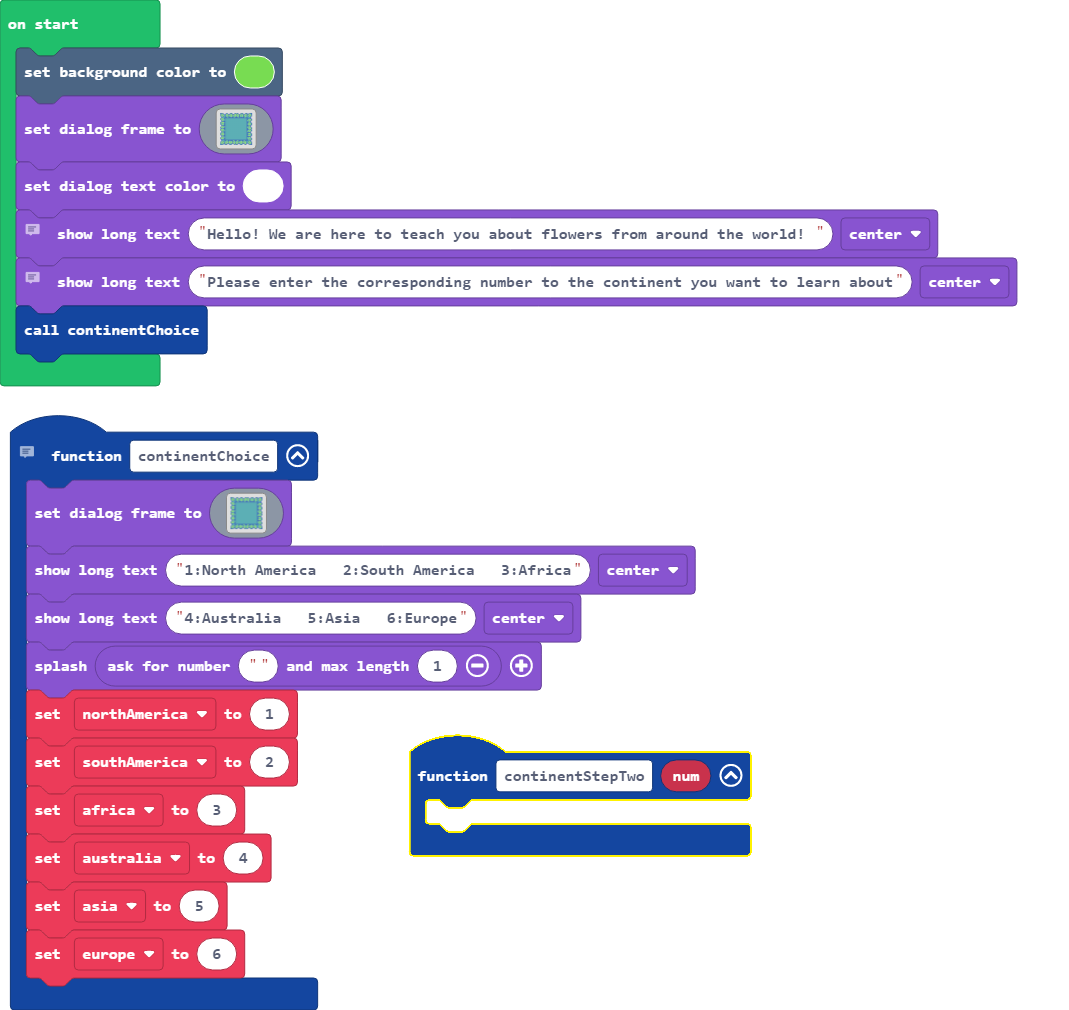
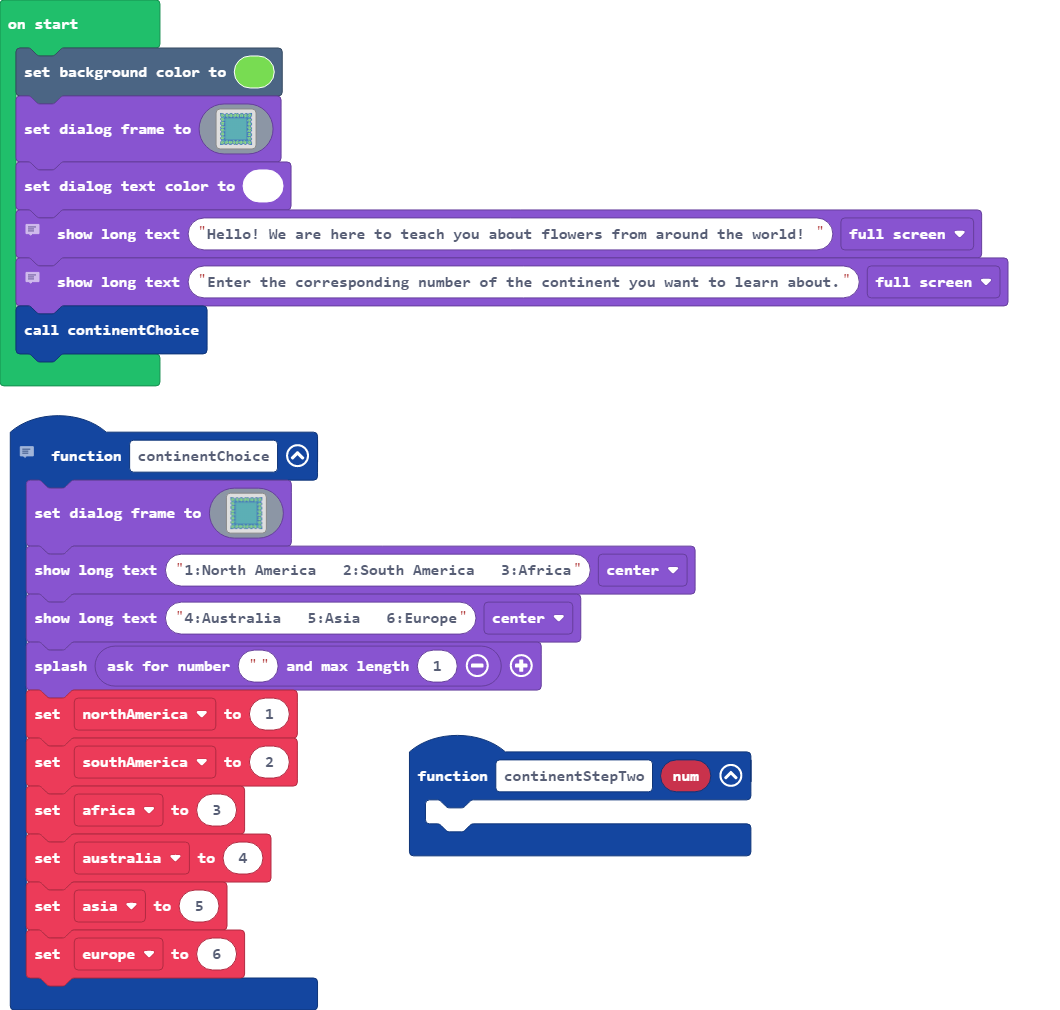
Update main.blocks, main.ts

diff --git a/main.ts b/main.ts
@@ -122,7 +122,7 @@ game.setDialogFrame(img`
     `)
 game.setDialogTextColor(1)
 // This text intros the user and tells them what the game will include
-game.showLongText("Hello! We are here to teach you about flowers from around the world! ", DialogLayout.Center)
+game.showLongText("Hello! We are here to teach you about flowers from around the world! ", DialogLayout.Full)
 // This long text is part two of the first text explaining what the game will be
-game.showLongText("Please enter the corresponding number to the continent you want to learn about", DialogLayout.Center)
+game.showLongText("Enter the corresponding number of the continent you want to learn about.", DialogLayout.Full)
 continentChoice()
